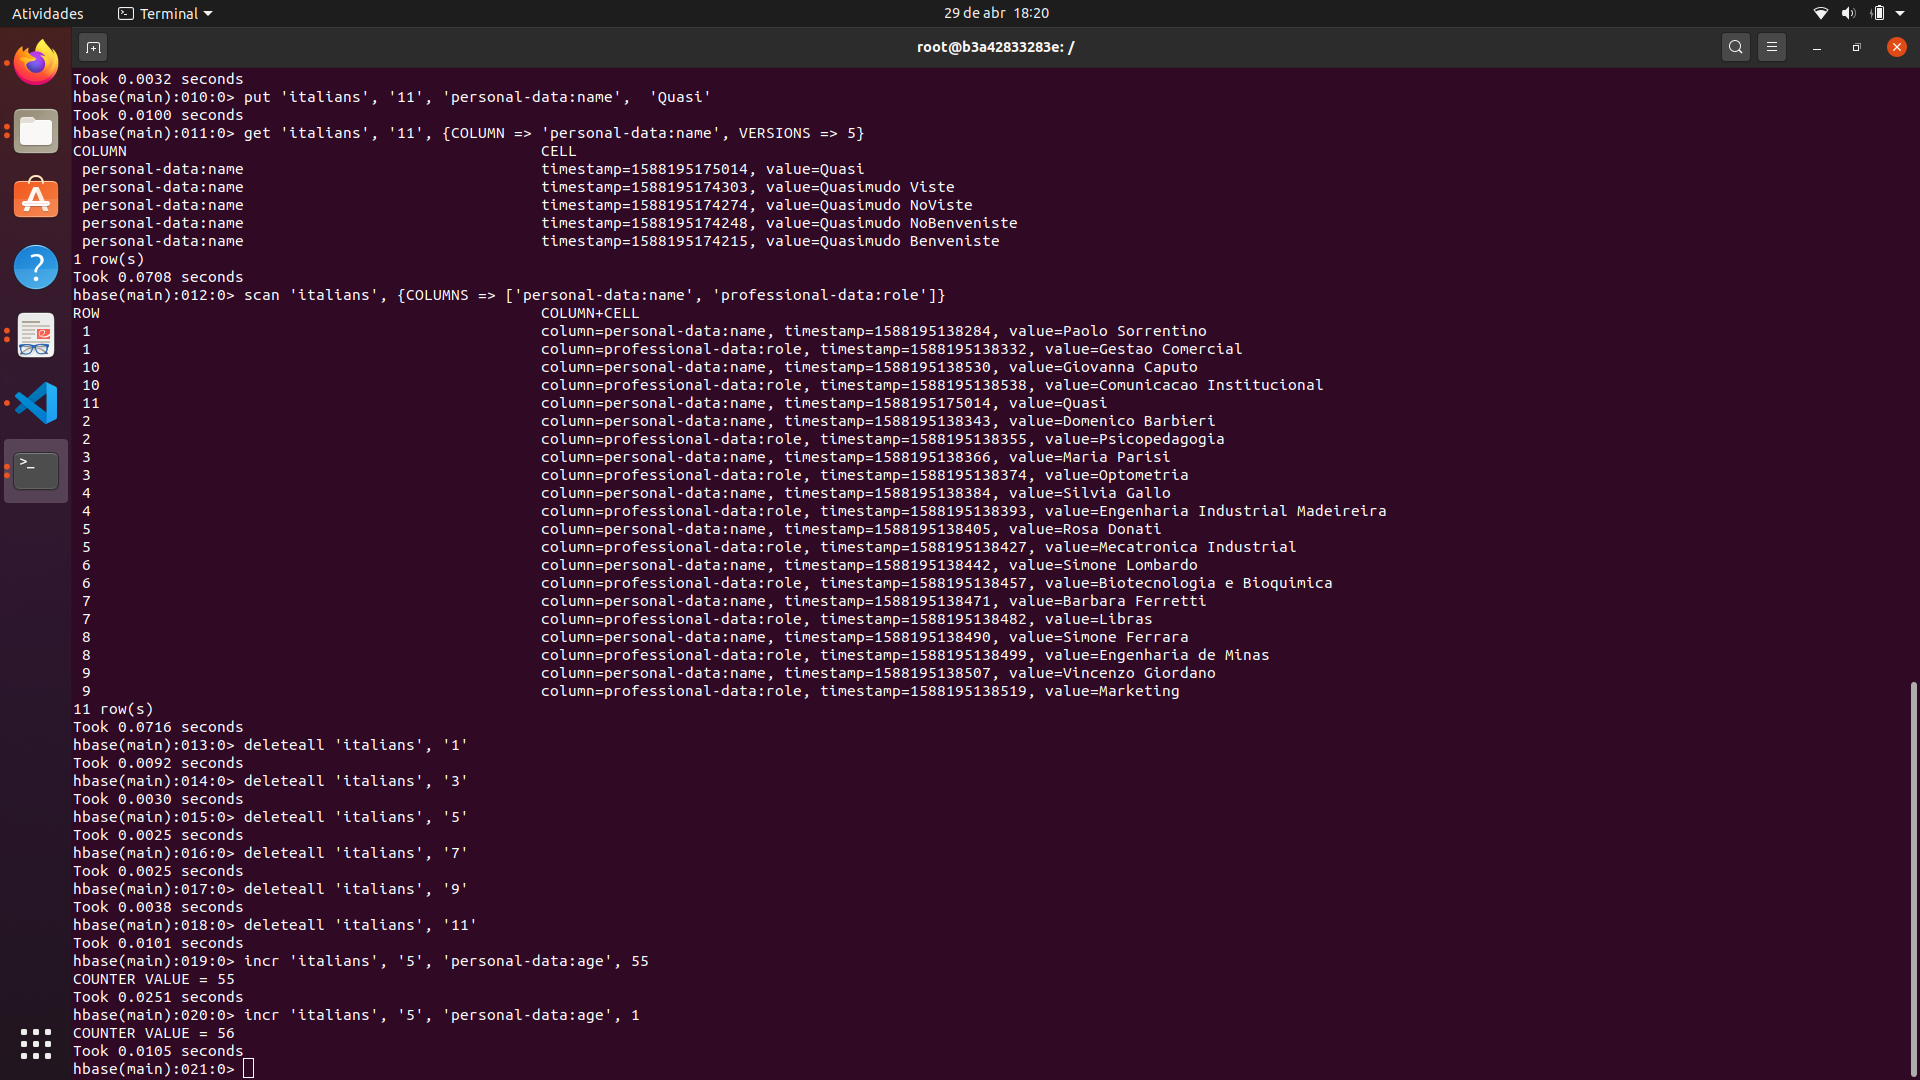
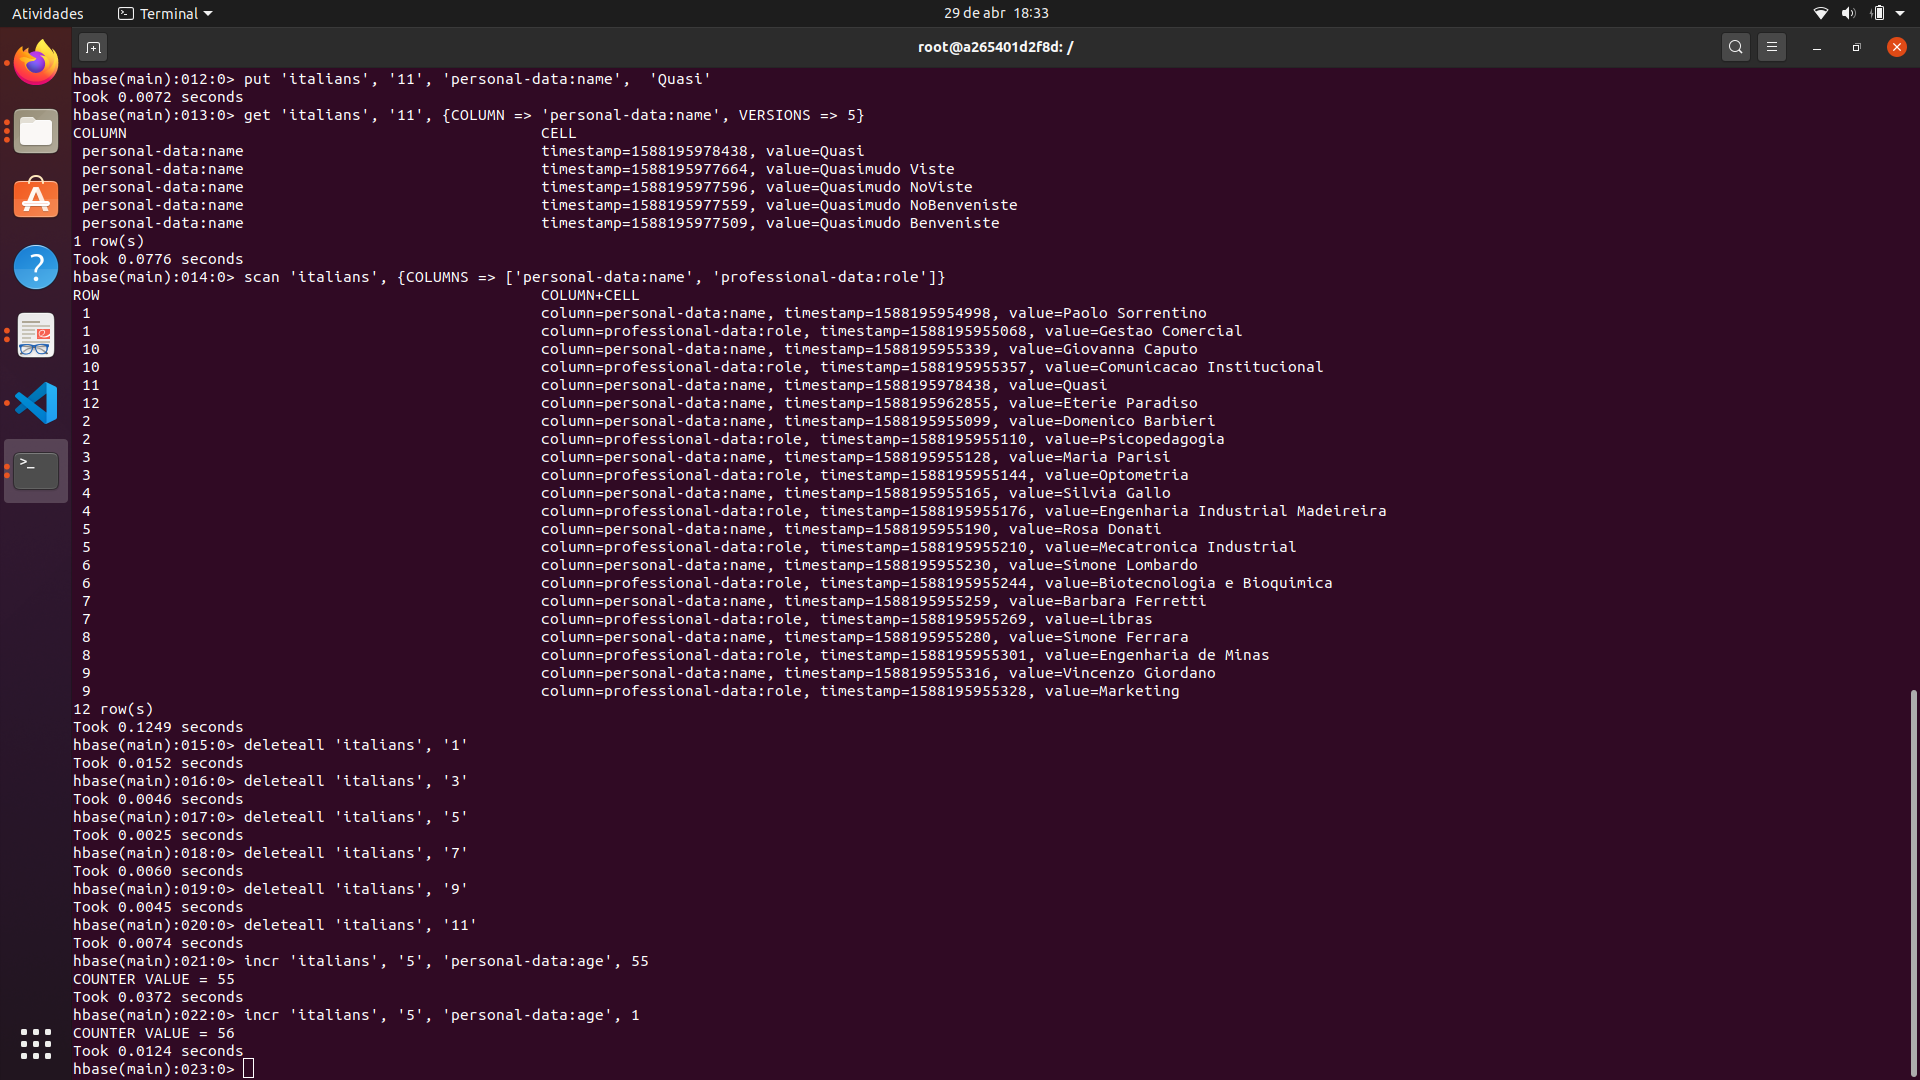
hbase exercicio 1

Changed region(s): [[0.0312, 0.0611, 0.6875, 0.6417], [0.4688, 0.0306, 0.5625, 0.0611], [0.0625, 0.8556, 0.0938, 0.8861]]

diff --git a/CMP.0013.00.02 - Banco de Dados Não Relacionais/HBase/README.md b/CMP.0013.00.02 - Banco de Dados Não Relacionais/HBase/README.md
@@ -24,6 +24,9 @@ Copiar o arquivo para o container: `docker cp italians.txt hbase-furb:/tmp`.
 put 'italians', '11', 'personal-data:name',  'Quasimodo Benveniste'
 put 'italians', '11', 'personal-data:birth_date',  '1988-10-25'
 put 'italians', '11', 'professional-data:years_exp',  '10'
+put 'italians', '12', 'personal-data:name',  'Eterie Paradiso'
+put 'italians', '12', 'personal-data:birth_date',  '2020-04-29'
+put 'italians', '12', 'professional-data:years_exp',  '0'
 ```
 
 ### 2.2. Adicione o controle de 5 versões na tabela de dados pessoais.
